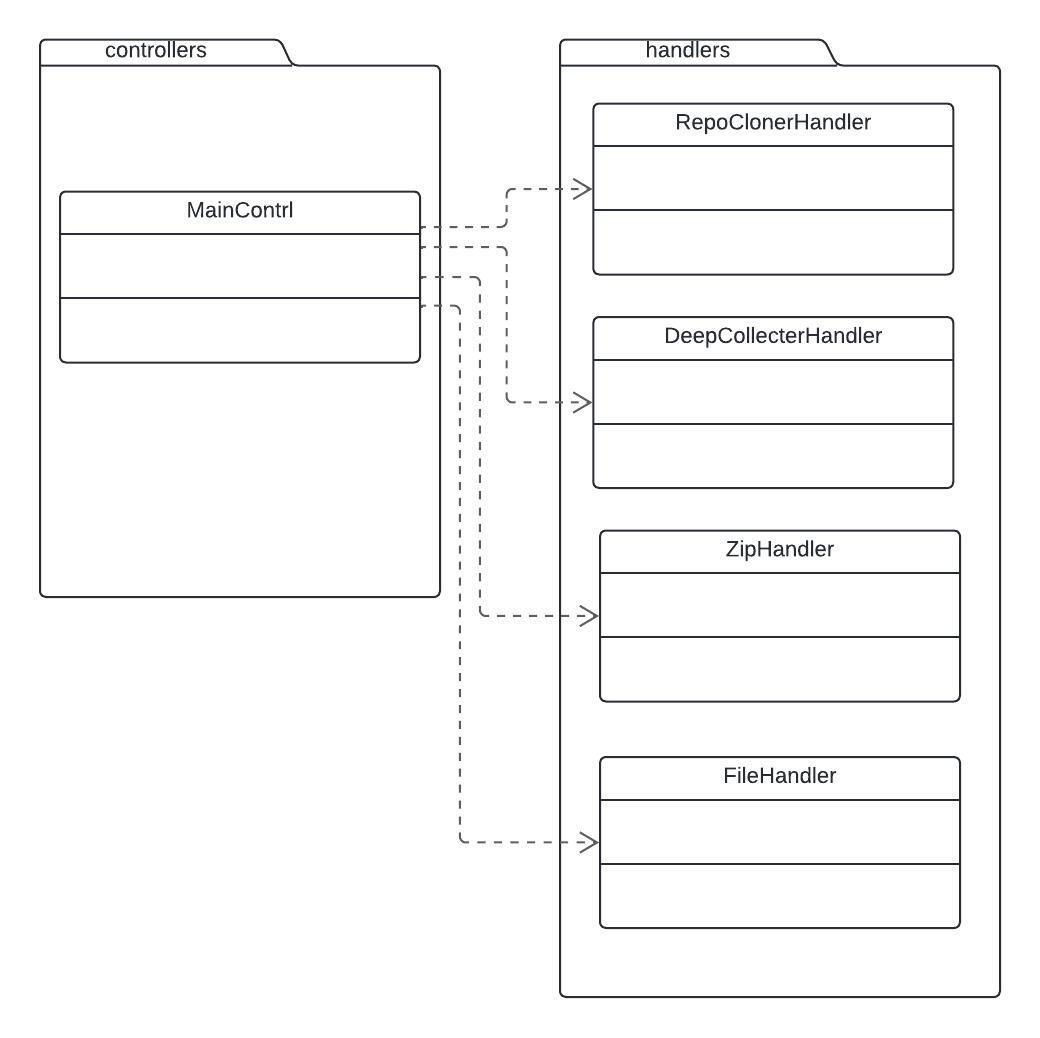
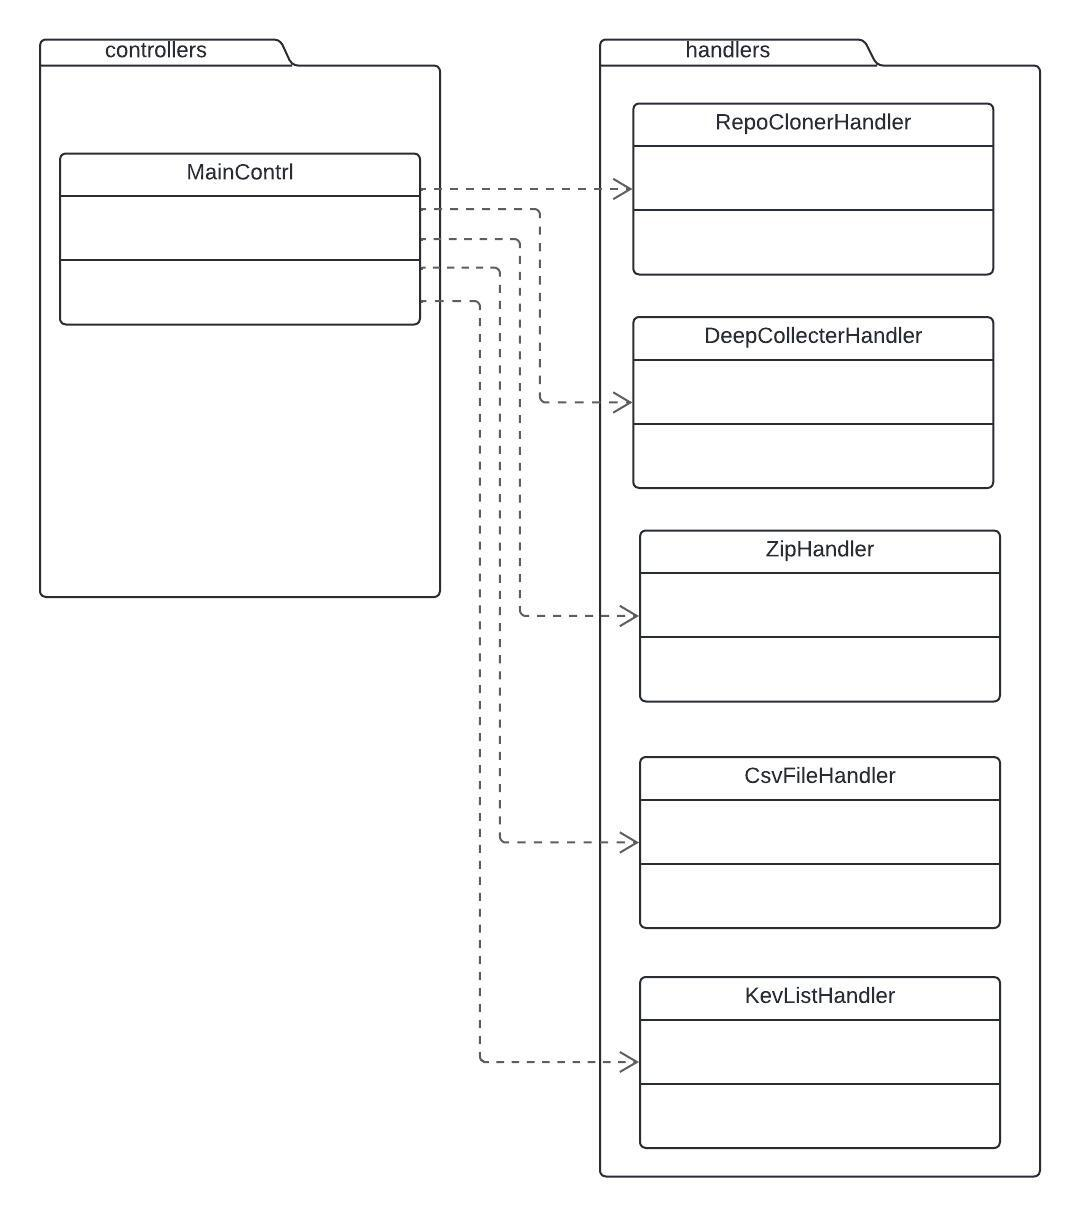
feat: add kev validation

diff --git a/src/controllers/MainController.py b/src/controllers/MainController.py
@@ -6,6 +6,7 @@ from src.handlers.RepoClonerHandler import RepoClonerHandler
 from src.handlers.DeepCollecterHandler import DeepCollecterHandler
 from src.handlers.CsvFileHandler import CsvFileHandler
 from src.handlers.ZipFileHandler import ZipFileHandler
+from src.handlers.KevListHandler import KevListHandler
 
 """
 MainController class
@@ -20,8 +21,12 @@ class MainController:
       target_folder=self.__config.TARGET_FOLDER
     )
 
-    print("Downloading...")
-    repo_cloner.clone_or_pull(self.CloneProgress())    
+    kev_list = KevListHandler(self.__config.KEV_URL)
+
+    print("Downloading from git...")
+    repo_cloner.clone_or_pull(self.CloneProgress())
+    print("Doenloading from Kev...")
+    kev_list.load_json()
 
     deep_collenter = DeepCollecterHandler(join(
       self.__config.TARGET_FOLDER,
@@ -33,8 +38,8 @@ class MainController:
     zip_file_high = ZipFileHandler(self.__config.TARGET_ZIP_FILE_HIGH)
     zip_file_critical = ZipFileHandler(self.__config.TARGET_ZIP_FILE_CRITICAL)
 
-    csv_file = CsvFileHandler(self.__config.CSV_FILE)
-    csv_file.add_row(['Id', 'Modified', 'Published', 'Aliases', 'Severity', 'Summary', 'Details'])
+    csv_file = CsvFileHandler(self.__config.CSV_FILE)  
+    csv_file.add_row(['Id', 'Modified', 'Published', 'Aliases', 'Severity', 'Summary', 'Details', 'KEV'])
 
     def on_file(file_name, file_path):
       with open(file_path, 'r') as json_file:
@@ -42,15 +47,23 @@ class MainController:
         json_data = json.loads(content)
 
         severity = json_data['database_specific']['severity']
+        aliases = ','.join(json_data.get('aliases', []))
+
+        kev = ''
+        for alias in json_data.get('aliases', []):
+          if alias.startswith('CVE-'):
+            if kev_list.exists(alias):
+              kev = '1'
 
         csv_file.add_row([
           json_data.get('id', ''),
           json_data.get('modified', ''),
           json_data.get('published', ''),
-          ','.join(json_data.get('aliases', '')),
+          aliases,
           severity,
           json_data.get('summary', ''),
           json_data.get('details', ''),
+          kev
         ])
 
         if severity  == 'LOW':

diff --git a/tests/handlers/test_KevListHandler.py b/tests/handlers/test_KevListHandler.py
@@ -1,0 +1,41 @@
+from unittest import TestCase
+from unittest.mock import patch
+
+class TestKevListHandler(TestCase):
+
+  @classmethod
+  def setUpClass(cls):
+    cls.urlopen = patch('urllib.request.urlopen').start()
+  
+  def tearDown(self):
+    patch.stopall()
+
+  @patch('json.loads')
+  def test_load_json(self, loads):
+    
+    from src.handlers.KevListHandler import KevListHandler
+
+    kev_list = KevListHandler('https://my/asome/url/')
+    kev_list.load_json()
+
+    self.urlopen.assert_called_with('https://my/asome/url/')
+    self.urlopen.return_value.read.assert_called_with()
+
+    loads.assert_called_with(self.urlopen.return_value.read.return_value)
+    self.assertEqual(kev_list.__dict__['_KevListHandler__data'], loads.return_value)
+
+  def test_exists(self):
+    from src.handlers.KevListHandler import KevListHandler
+
+    kev_list = KevListHandler('https://my/asome/url/')
+    kev_list.__dict__['_KevListHandler__data'] = {'vulnerabilities': [{'cveID': 'right_id'}]}
+
+    right = kev_list.exists('right_id')
+    wrong = kev_list.exists('wrong_id')
+
+    self.assertTrue(right)
+    self.assertFalse(wrong)
+
+
+
+    

diff --git a/src/handlers/KevListHandler.py b/src/handlers/KevListHandler.py
@@ -1,0 +1,18 @@
+from urllib.request import urlopen 
+import json
+
+"""
+KevListHandler class
+"""
+class KevListHandler:
+  def __init__(self, url):
+    self.__url = url
+
+  def load_json(self) -> None:
+    response = urlopen(self.__url)
+    self.__data = json.loads(response.read())
+
+  def exists(self, cve_id) -> bool:
+    for vulnerability in self.__data['vulnerabilities']:
+      if vulnerability['cveID'] == cve_id:
+        return True

diff --git a/config.py b/config.py
@@ -6,6 +6,8 @@ dir_path = path.dirname(path.realpath(__file__))
 REPOSITORY = 'https://github.com/github/advisory-database'
 TARGET_FOLDER = path.join(dir_path, 'repo_target/')
 
+# Kev
+KEV_URL = 'https://www.cisa.gov/sites/default/files/feeds/known_exploited_vulnerabilities.json'
 
 # Deep Collecter
 ADVISORES_FOLDER = 'advisories/github-reviewed'
